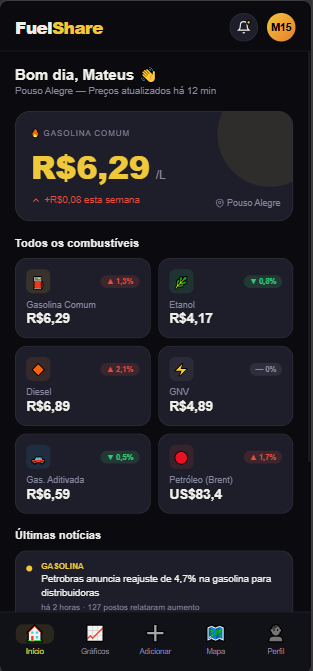
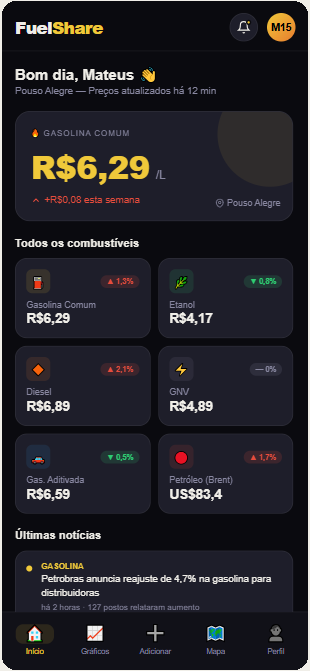
typo fix

diff --git a/README.md b/README.md
@@ -41,8 +41,11 @@ For enterprise evaluation, the core codebase, UI components, and state logic can
 
 ```text
 ├── Fuel-Share/
-│   ├── icons/
-│   │   └── Production-preview.png  # Application visual mockup
+│   ├── assets/
+│   │   ├── brand/                  # Logos, badges and visual identity assets
+│   │   ├── icon/                   # App icons and PWA favicons
+│   │   └── images/
+│   │       └── Production-preview.png  # Application visual mockup
 │   └── src/
 │       ├── index.html              # Semantic structure & DOM entry point
 │       ├── main-style.css          # Custom Dark Premium theme & Flexbox layout